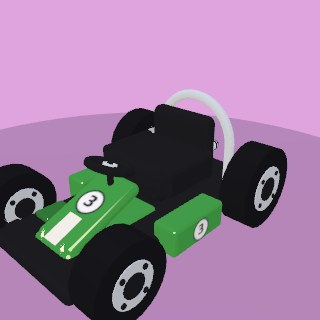
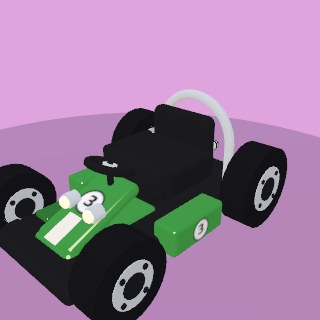
Round pod headlights on stalks for the buggy + cage kart
The two off-road styles swap the flat nose-tip lights for classic
dune-buggy bullets: chrome pod housings up on little chrome stalks on
the nose, with shallow glowing lens domes poking out the front (the
lenses ride the shared headlight merge, so they still flare at night).

Claude-Session: https://claude.ai/code/session_017fyz1DfGtQ1NoLSq3UX5Bd

diff --git a/src/models.js b/src/models.js
@@ -1449,6 +1449,17 @@ export function createKartModel(bodyColor = 0xe53935, opts = {}) {
         const winglet = add(new THREE.Mesh(rbox(0.36, 0.12, 0.52, 0.05), accent));
         winglet.position.set(sx * 0.64, 0.6, 1.25);
       }
+      if (st.hoop || st.cage) {
+        // Off-roaders wear round pod headlights up on chrome stalks (classic
+        // dune-buggy bullets). The glowing lenses join the headlight merge below.
+        for (const sx of [-1, 1]) {
+          const stem = add(new THREE.Mesh(new THREE.CylinderGeometry(0.035, 0.035, 0.28, 8), chrome));
+          stem.position.set(sx * 0.3, 0.74, snout - 0.2);
+          const pod = add(new THREE.Mesh(new THREE.CylinderGeometry(0.13, 0.13, 0.2, 14), chrome));
+          pod.rotation.x = Math.PI / 2;
+          pod.position.set(sx * 0.3, 0.92, snout - 0.18);
+        }
+      }
       // Steering post drops STRAIGHT DOWN from the hub into the panel — well
       // clear of the number roundel further down the slope.
       const column = add(new THREE.Mesh(new THREE.CylinderGeometry(0.055, 0.055, 0.55, 10), dark));
@@ -1614,6 +1625,14 @@ export function createKartModel(bodyColor = 0xe53935, opts = {}) {
       const light = new THREE.Mesh(new THREE.SphereGeometry(0.18, 12, 12), glass);
       light.position.set(sx * 0.46, 0.66, st.hlZ ?? 2.92);
       hlParts.push(light);
+    }
+  } else if (st.hoop || st.cage) {
+    // Lenses for the pod headlights on stalks (housings built in the shell).
+    for (const sx of [-1, 1]) {
+      const lens = new THREE.Mesh(new THREE.SphereGeometry(0.105, 12, 12), glass);
+      lens.position.set(sx * 0.3, 0.92, (st.snout ?? 1.55) - 0.05);
+      lens.scale.set(1, 1, 0.7); // shallow dome poking out of the housing
+      hlParts.push(lens);
     }
   } else {
     // Kart lights sit on the short nose stub's tip.
